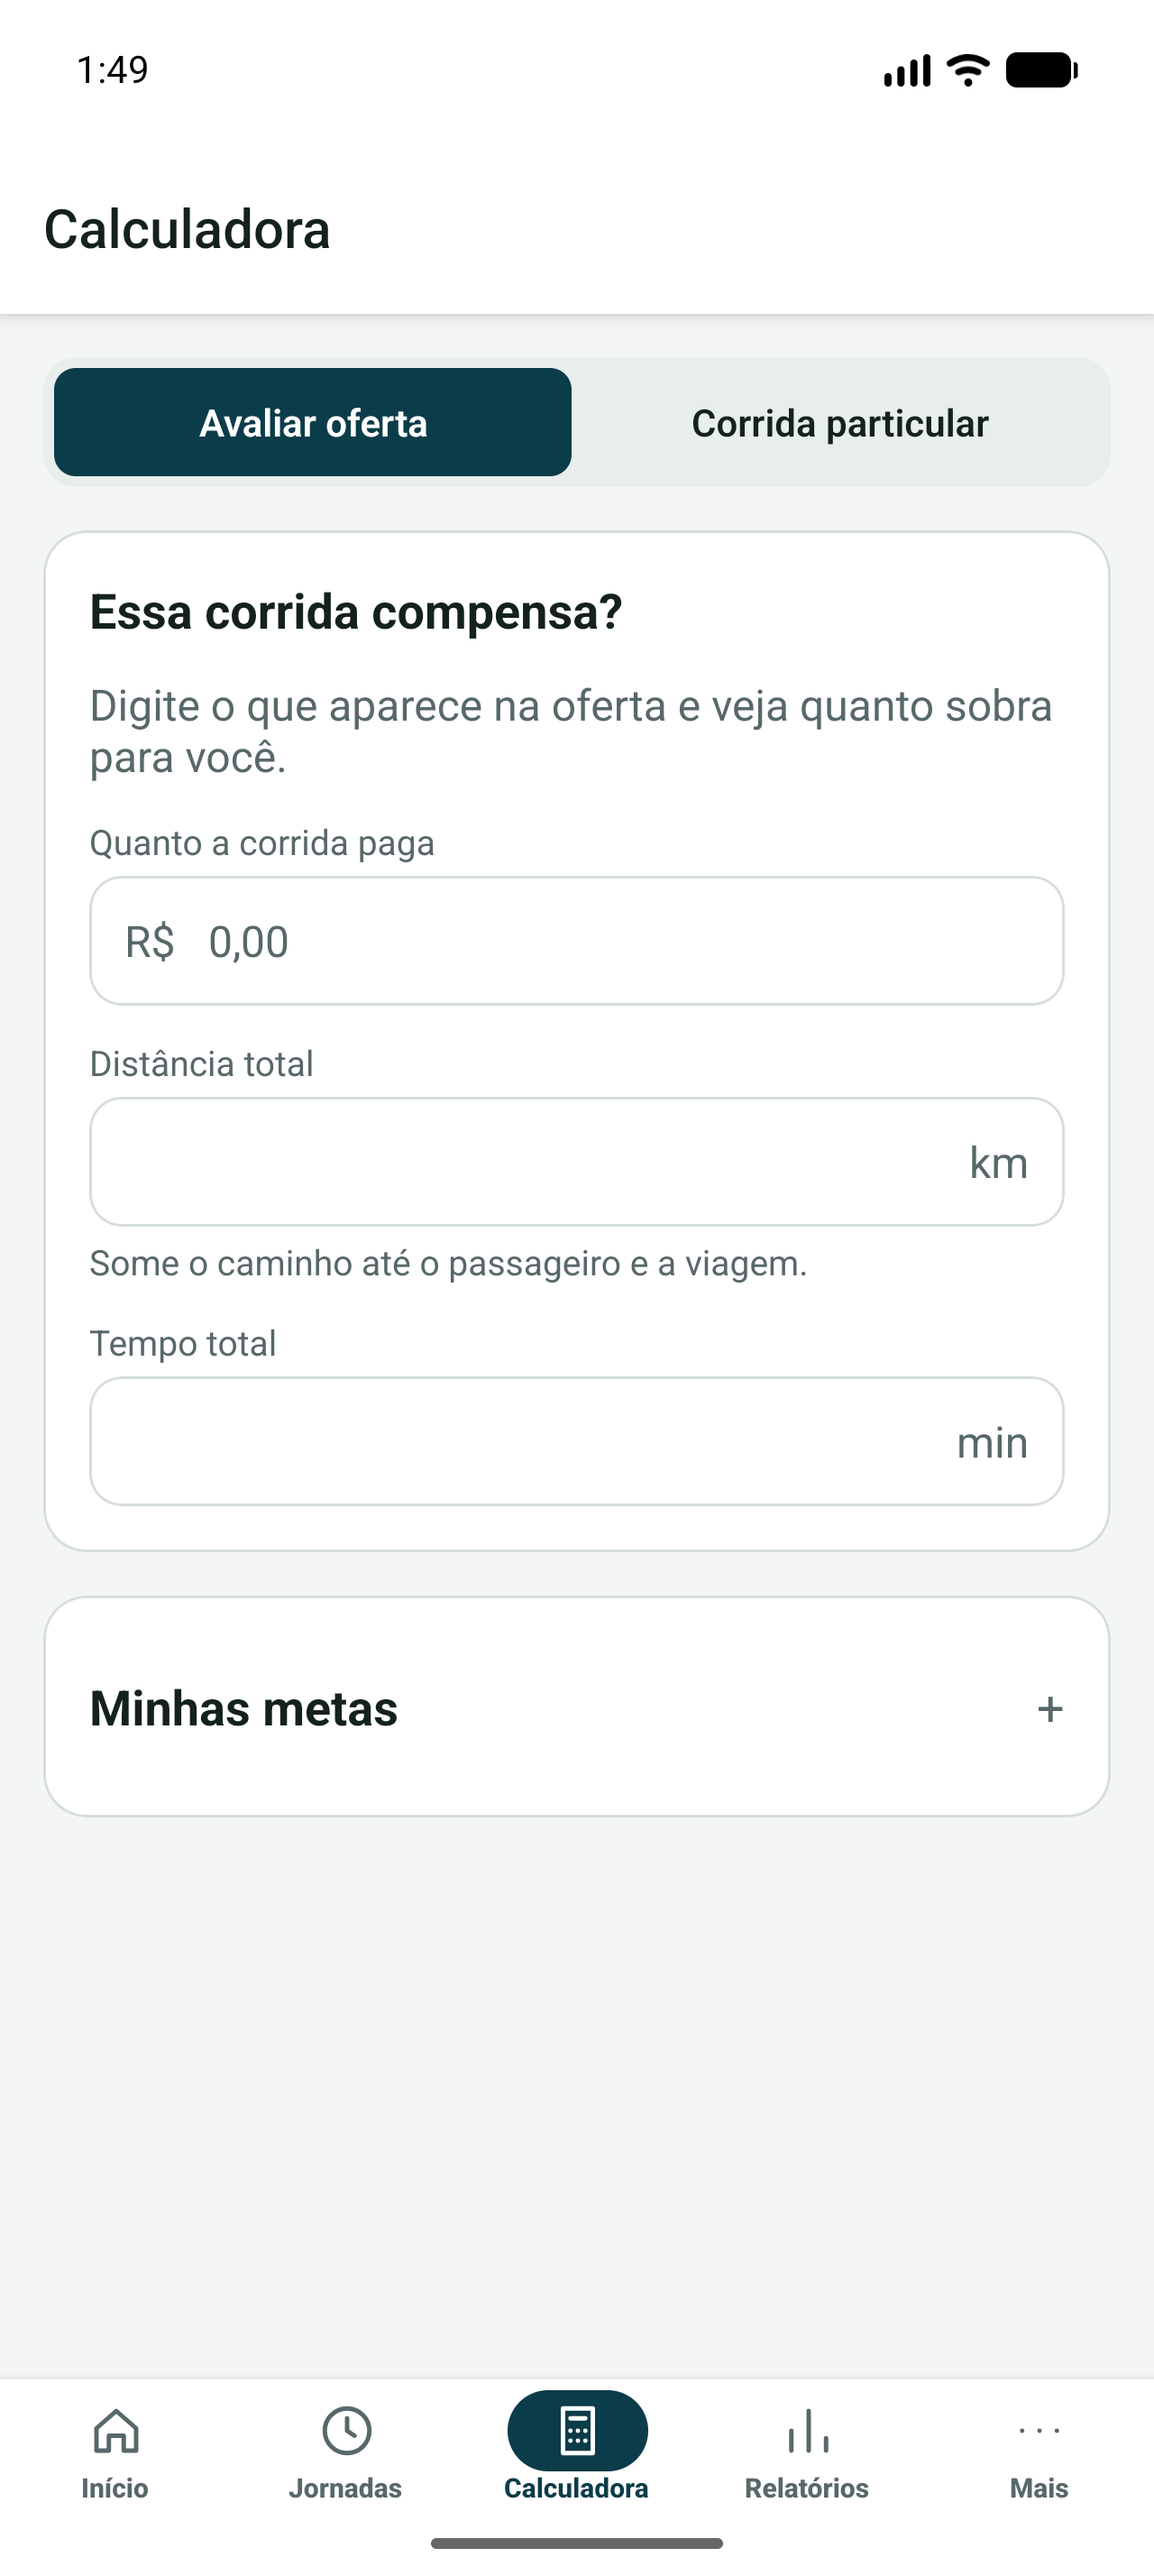
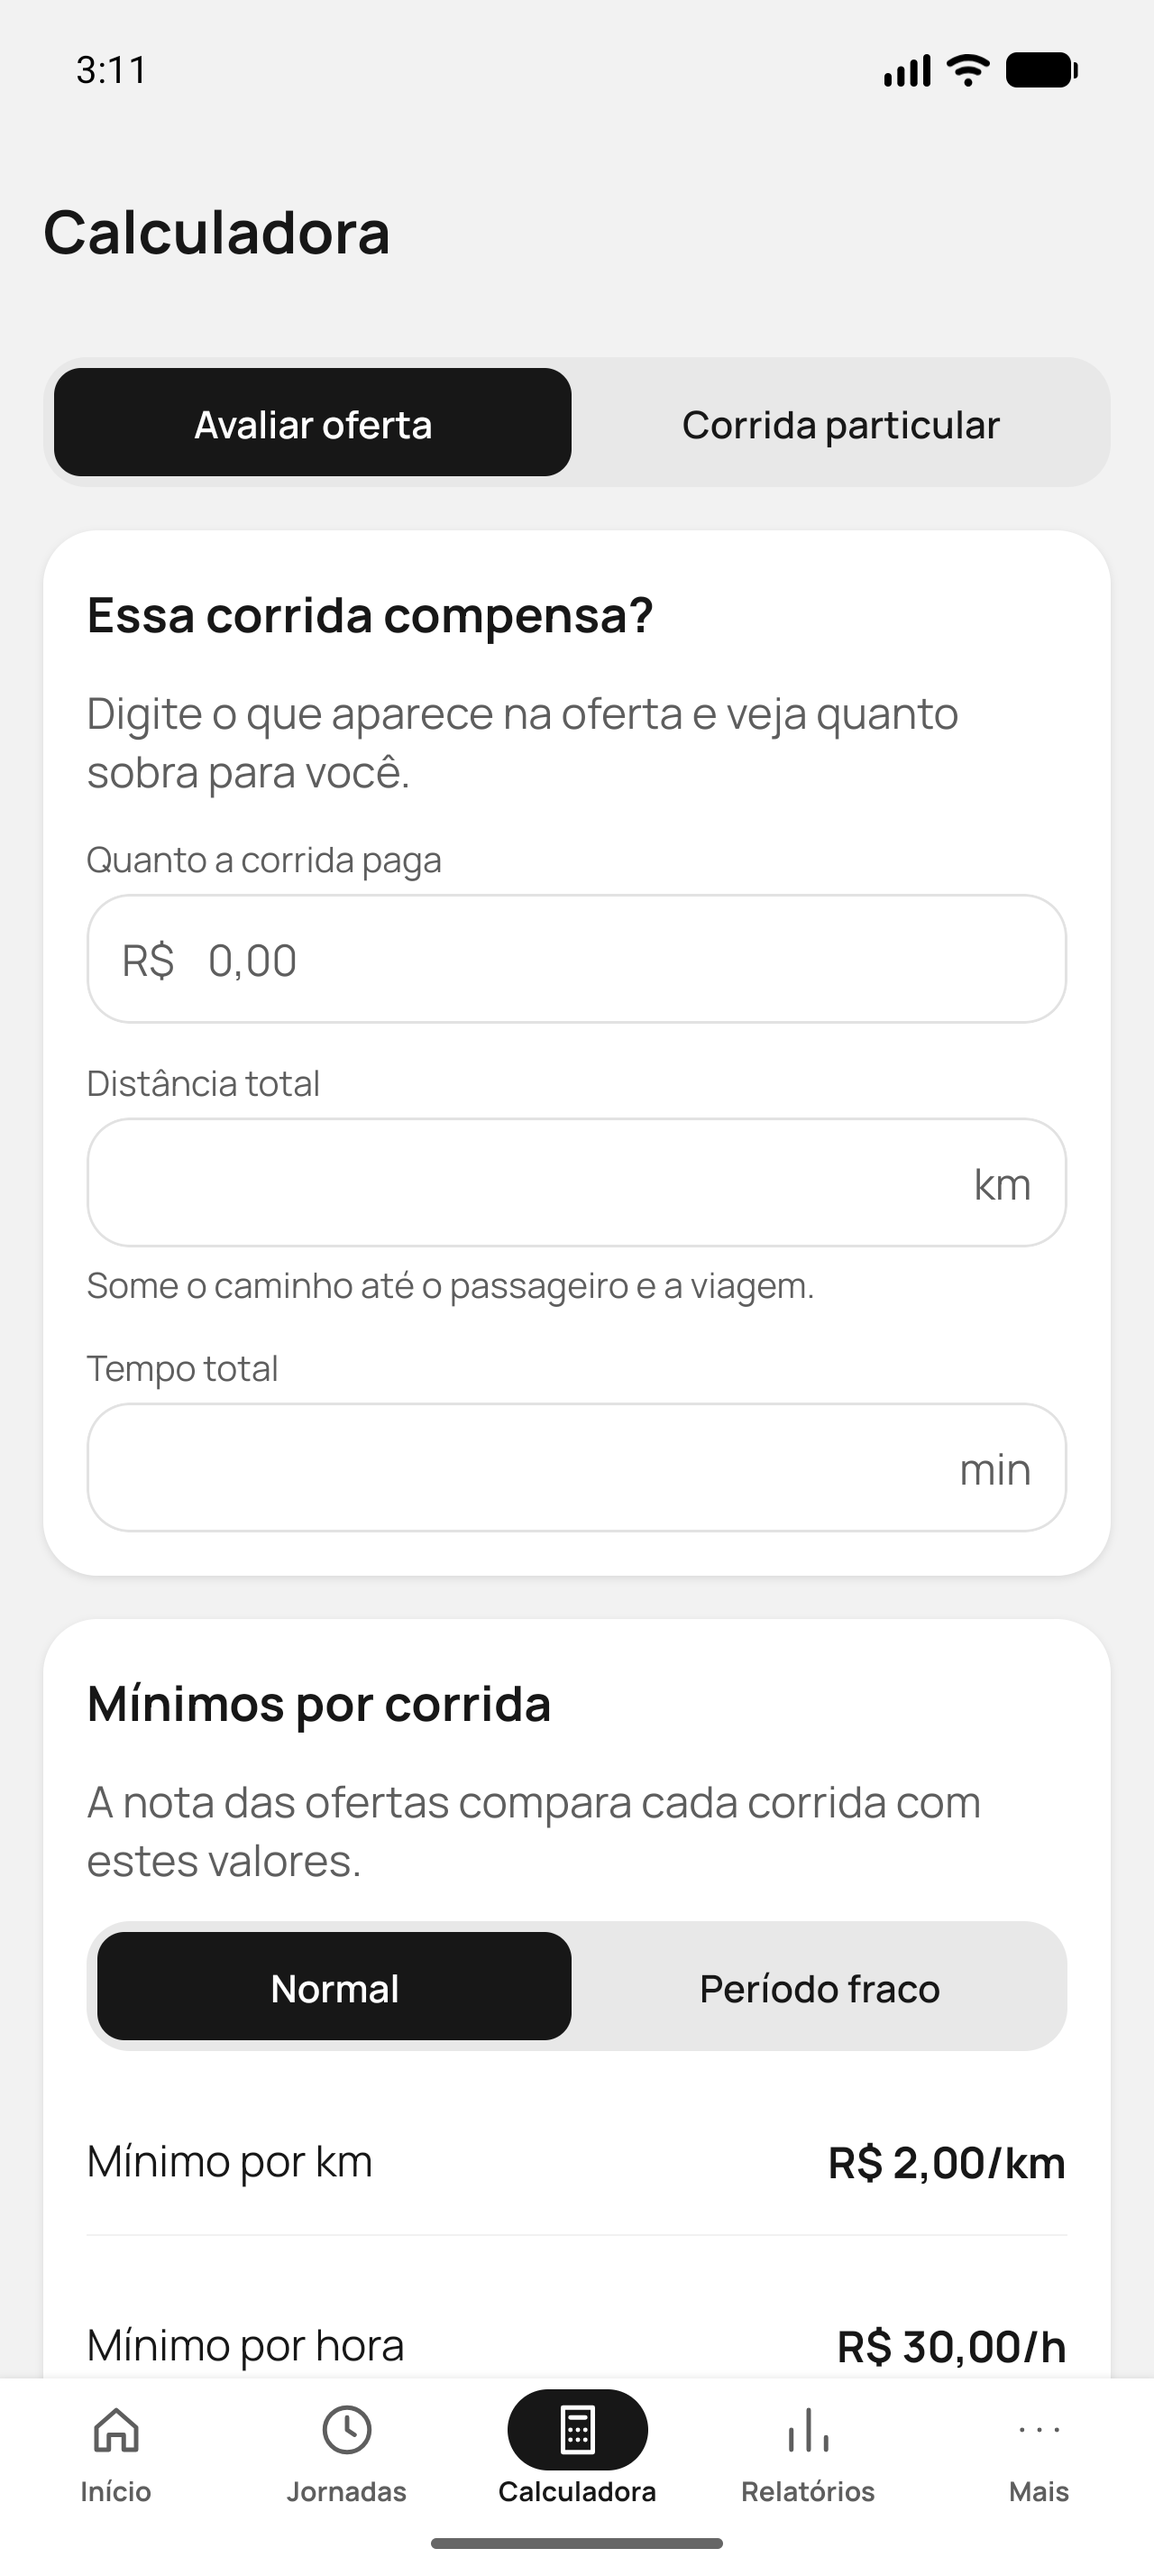
docs: atualiza o README, as capturas e a arquitetura

diff --git a/README.md b/README.md
@@ -11,10 +11,17 @@
 </div>
 
 <p align="center">
-  <img src="docs/imagens/inicio.png" width="200" alt="Tela inicial com o lucro do dia" />
+  <img src="docs/imagens/inicio.png" width="200" alt="Tela inicial com o lucro do dia, no tema claro" />
   <img src="docs/imagens/oferta.png" width="200" alt="Cartão de avaliação de uma oferta" />
   <img src="docs/imagens/calculadora.png" width="200" alt="Calculadora de corridas" />
   <img src="docs/imagens/relatorios.png" width="200" alt="Relatórios de lucro" />
+</p>
+
+<p align="center">
+  <img src="docs/imagens/inicio-escuro.png" width="200" alt="Tela inicial no tema escuro" />
+  <img src="docs/imagens/jornadas-escuro.png" width="200" alt="Jornadas no tema escuro" />
+  <img src="docs/imagens/calculadora-escuro.png" width="200" alt="Calculadora no tema escuro" />
+  <img src="docs/imagens/mais-escuro.png" width="200" alt="Menu Mais no tema escuro" />
 </p>
 
 ## Por que este projeto existe
@@ -31,7 +38,8 @@ O Motorista quer democratizar esse tipo de app. Ele é uma opção profissional 
 - **Calculadoras:** avaliação de ofertas e preço de corridas particulares.
 - **Meta e mínimos:** transforma o lucro que você quer em valor por dia e no mínimo que cada corrida deve pagar, por km e por hora.
 - **Copiloto de ofertas:** lê a oferta na tela e mostra uma nota de 0 a 10 por cartão, botão flutuante, notificação ou voz.
-- **Mais recursos:** relatórios, lembretes de manutenção, backup em arquivo e tema claro e escuro.
+- **Visual limpo:** preto, branco e cinza, com cor só onde ela informa, como no lucro e na nota da oferta. Tem tema claro e escuro.
+- **Mais recursos:** relatórios, lembretes de manutenção e backup em arquivo.
 
 ### Você sempre decide
 
@@ -99,5 +107,7 @@ O código é aberto para consulta, estudo e melhorias, mas **a comercialização
 - **Não pode:** vender ou alugar o app ou versões derivadas, cobrar por acesso, instalação, recursos ou suporte, exibir anúncios ou incluí-lo em produto ou serviço pago.
 
 Este resumo não substitui o texto do arquivo [LICENSE](LICENSE).
+
+A fonte Manrope, incluída no app, é distribuída sob a [SIL Open Font License](assets/fonts/OFL.txt). Os termos de uso e a política de privacidade ficam dentro do app, em Mais.
 
 Motorista é um projeto independente, sem vínculo com Uber, 99, inDrive ou outras plataformas. As marcas citadas pertencem aos seus donos.

diff --git a/docs/arquitetura.md b/docs/arquitetura.md
@@ -111,3 +111,10 @@ app -> features -> data -> domain -> shared/utils
 
 - **Meta e mínimos na mesma tela:** "meta" é o objetivo do mês e "mínimo" é o valor exigido por corrida. Os valores são editados só em `GoalScreen`; Copiloto e Calculadora mostram um resumo.
 - **Acompanhar a meta:** com `followGoal` ligado, `withGoalTargets` calcula os mínimos do modo normal ao carregar as configurações. Assim, eles não ficam desatualizados quando a meta muda. Sem meta ou veículo, valem os valores salvos.
+
+## Decisões da versão 0.8.0
+
+- **Identidade monocromática:** a interface usa branco, cinza e preto, e a cor fica reservada aos dados, como lucro, estados e nota da oferta. Os valores estão em `palette`, com contraste testado.
+- **Fonte embutida:** a Manrope vai dentro do APK pelo plugin `expo-font`, porque o app não usa internet. O código nativo a carrega em `AppFonts`.
+- **Separação sem borda:** cards se destacam pelo fundo e por uma sombra leve no tema claro. Avisos usam ícone e fundo neutro.
+- **Progresso em trechos:** `ProgressBar` desenha 12 trechos, como uma faixa de estrada.
